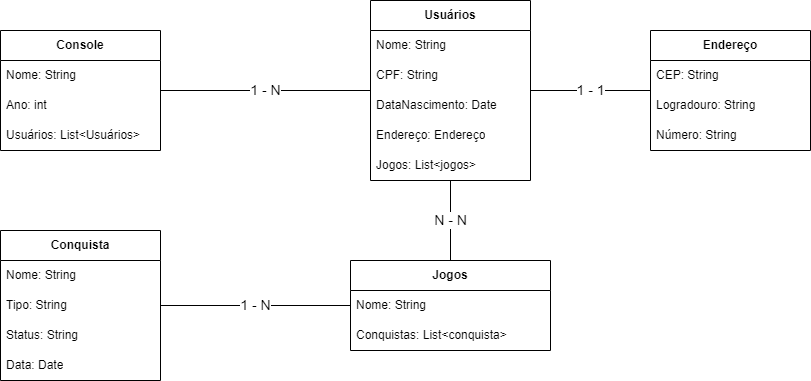
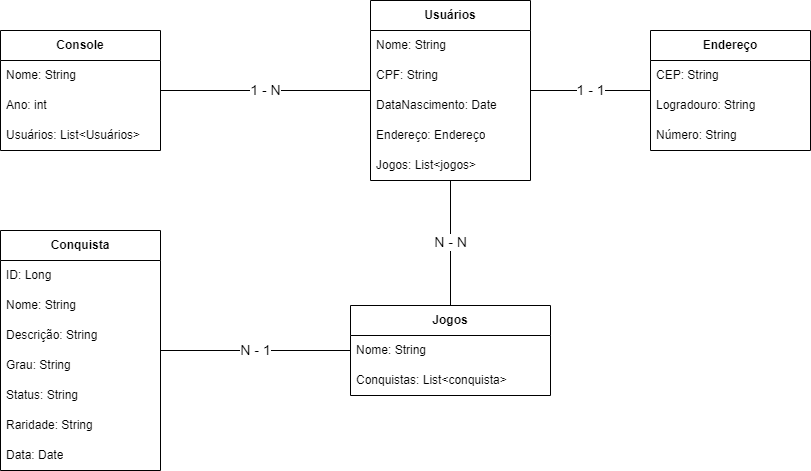
Começando o projeto, implementando a entidade Conquista

diff --git a/Módulo VI - PROGRAMAÇÃO WEB II/ProjetoWesleyFaveron/src/main/java/br/com/ada/sinqia/ProjetoWesleyFaveron/service/ConquistaServiceImpl.java b/Módulo VI - PROGRAMAÇÃO WEB II/ProjetoWesleyFaveron/src/main/java/br/com/ada/sinqia/ProjetoWesleyFaveron/service/ConquistaServiceImpl.java
@@ -1,0 +1,47 @@
+package br.com.ada.sinqia.ProjetoWesleyFaveron.service;
+
+import br.com.ada.sinqia.ProjetoWesleyFaveron.domain.Conquista;
+import br.com.ada.sinqia.ProjetoWesleyFaveron.exceptions.ConquistaExistenteException;
+import br.com.ada.sinqia.ProjetoWesleyFaveron.exceptions.ConquistaNaoEncontradaException;
+import br.com.ada.sinqia.ProjetoWesleyFaveron.repository.ConquistaRepository;
+import lombok.RequiredArgsConstructor;
+import org.springframework.stereotype.Service;
+
+import java.util.List;
+
+@Service
+@RequiredArgsConstructor
+public class ConquistaServiceImpl implements ConquistaService {
+
+    private final ConquistaRepository repository;
+
+    @Override
+    public Conquista save(Conquista conquista) {
+        if (repository.existsByNome(conquista.getNome())) {
+            throw new ConquistaExistenteException();
+        }
+        return repository.save(conquista);
+    }
+
+    @Override
+    public Conquista findById(Long id) {
+        return repository.findById(id).orElseThrow(ConquistaNaoEncontradaException::new);
+    }
+
+    @Override
+    public Conquista update(Long id, Conquista conquista) {
+        if (repository.existsById(id)) {
+            conquista.setId(id);
+            return repository.save(conquista);
+        }
+        throw new ConquistaNaoEncontradaException();
+    }
+
+    @Override
+    public void delete(Long id) {
+        if (!repository.existsById(id)) {
+            throw new ConquistaNaoEncontradaException();
+        }
+        repository.deleteById(id);
+    }
+}

diff --git a/Módulo VI - PROGRAMAÇÃO WEB II/ProjetoWesleyFaveron/src/main/java/br/com/ada/sinqia/ProjetoWesleyFaveron/domain/Conquista.java b/Módulo VI - PROGRAMAÇÃO WEB II/ProjetoWesleyFaveron/src/main/java/br/com/ada/sinqia/ProjetoWesleyFaveron/domain/Conquista.java
@@ -1,0 +1,51 @@
+package br.com.ada.sinqia.ProjetoWesleyFaveron.domain;
+
+import jakarta.persistence.*;
+import jakarta.validation.constraints.NotBlank;
+import jakarta.validation.constraints.NotNull;
+import lombok.*;
+
+import java.time.LocalDateTime;
+
+@Getter
+@Setter
+@AllArgsConstructor
+@NoArgsConstructor
+@Builder
+@Entity(name = "Conquistas")
+public class Conquista {
+    @Id
+    @GeneratedValue(strategy = GenerationType.IDENTITY)
+    private Long id;
+
+    @NotNull
+    @NotBlank
+    @Column(name = "Nome", unique = true)
+    private String nome;
+
+    @NotNull
+    @NotBlank
+    @Column(name = "Detalhes")
+    private String descricao;
+
+    @NotNull
+    @NotBlank
+    @Enumerated(EnumType.STRING)
+    @Column(name = "Status")
+    private ConquistaStatus status;
+
+    @NotNull
+    @NotBlank
+    @Enumerated(EnumType.STRING)
+    @Column(name = "Grau")
+    private ConquistaGrau grau;
+
+    @NotNull
+    @NotBlank
+    @Enumerated(EnumType.STRING)
+    @Column(name = "Raridade")
+    private ConquistaRaridade raridade;
+
+    @Column(name = "Data_Da_Conquista")
+    private LocalDateTime dataDaConquista;
+}

diff --git a/Módulo VI - PROGRAMAÇÃO WEB II/ProjetoWesleyFaveron/src/main/java/br/com/ada/sinqia/ProjetoWesleyFaveron/dto/ConquistaSaveDTO.java b/Módulo VI - PROGRAMAÇÃO WEB II/ProjetoWesleyFaveron/src/main/java/br/com/ada/sinqia/ProjetoWesleyFaveron/dto/ConquistaSaveDTO.java
@@ -1,0 +1,31 @@
+package br.com.ada.sinqia.ProjetoWesleyFaveron.dto;
+
+import br.com.ada.sinqia.ProjetoWesleyFaveron.domain.ConquistaGrau;
+import br.com.ada.sinqia.ProjetoWesleyFaveron.domain.ConquistaRaridade;
+import br.com.ada.sinqia.ProjetoWesleyFaveron.domain.ConquistaStatus;
+import jakarta.validation.constraints.NotBlank;
+import jakarta.validation.constraints.NotNull;
+import lombok.Getter;
+import lombok.Setter;
+
+@Setter
+@Getter
+public class ConquistaSaveDTO {
+    @NotBlank(message = "Nome é um campo obrigatorio")
+    private String nome;
+
+    @NotBlank(message = "Descrição é um campo obrigatorio")
+    private String descricao;
+
+    @NotBlank(message = "Status é um campo obrigatorio")
+    @NotNull
+    private ConquistaStatus status;
+
+    @NotBlank(message = "Grau é um campo obrigatorio")
+    @NotNull
+    private ConquistaGrau grau;
+
+    @NotBlank(message = "Raridade é um campo obrigatorio")
+    @NotNull
+    private ConquistaRaridade raridade;
+}

diff --git a/Módulo VI - PROGRAMAÇÃO WEB II/Industria-eolica/src/main/java/br/com/ada/Industria/eolica/service/AerogeradorServiceImpl.java b/Módulo VI - PROGRAMAÇÃO WEB II/Industria-eolica/src/main/java/br/com/ada/Industria/eolica/service/AerogeradorServiceImpl.java
@@ -12,6 +12,7 @@ import java.util.List;
 @Service
 @RequiredArgsConstructor
 public class AerogeradorServiceImpl implements AerogeradorService {
+
     private final AerogeradorRepository repository;
 
     public List<Aerogerador> list() {
@@ -20,7 +21,7 @@ public class AerogeradorServiceImpl implements AerogeradorService {
 
     @Override
     public Aerogerador save(Aerogerador aerogerador) {
-        if (repository.existsByNumeroSerie(aerogerador.getNumeroSerie())) {
+        if (repository.existsByNumeroSerie(aerogerador.getNumeroSerie())){
             throw new AerogeradorNumeroSerieException();
         }
         return repository.save(aerogerador);
@@ -47,4 +48,5 @@ public class AerogeradorServiceImpl implements AerogeradorService {
         }
         repository.deleteById(id);
     }
+
 }

diff --git a/Módulo VI - PROGRAMAÇÃO WEB II/ProjetoWesleyFaveron/src/main/java/br/com/ada/sinqia/ProjetoWesleyFaveron/domain/Endereco.java b/Módulo VI - PROGRAMAÇÃO WEB II/ProjetoWesleyFaveron/src/main/java/br/com/ada/sinqia/ProjetoWesleyFaveron/domain/Endereco.java
@@ -1,9 +1,10 @@
-package br.com.ada.Industria.eolica.domain;
+package br.com.ada.sinqia.ProjetoWesleyFaveron.domain;
 
 import jakarta.persistence.Entity;
 import jakarta.persistence.GeneratedValue;
 import jakarta.persistence.GenerationType;
 import jakarta.persistence.Id;
+import jakarta.validation.constraints.NotNull;
 import lombok.Getter;
 import lombok.Setter;
 
@@ -11,11 +12,13 @@ import lombok.Setter;
 @Getter
 @Setter
 public class Endereco {
-
     @Id
     @GeneratedValue(strategy = GenerationType.AUTO)
     private Long id;
+
+    @NotNull
     private String cep;
     private String logradouro;
+    @NotNull
     private String numero;
 }

diff --git a/Módulo VI - PROGRAMAÇÃO WEB II/Industria-eolica/src/main/java/br/com/ada/Industria/eolica/domain/Aerogerador.java b/Módulo VI - PROGRAMAÇÃO WEB II/Industria-eolica/src/main/java/br/com/ada/Industria/eolica/domain/Aerogerador.java
@@ -12,6 +12,7 @@ import java.time.LocalDateTime;
 @Builder
 @Entity
 public class Aerogerador {
+
     @Id
     @GeneratedValue(strategy = GenerationType.SEQUENCE)
     private Long id;
@@ -22,9 +23,9 @@ public class Aerogerador {
     private String numeroSerie;
 
     @Enumerated(EnumType.STRING)
-    private br.com.ada.Industria.eolica.domain.AerogeradorStatus status;
+    private AerogeradorStatus status;
     private LocalDateTime createdAt;
 
     @ManyToOne(fetch = FetchType.LAZY)
-    private br.com.ada.Industria.eolica.domain.ParqueEolico parqueEolico;
+    private ParqueEolico parqueEolico;
 }

diff --git a/Módulo VI - PROGRAMAÇÃO WEB II/Industria-eolica/src/main/java/br/com/ada/Industria/eolica/controller/ParqueEolicoController.java b/Módulo VI - PROGRAMAÇÃO WEB II/Industria-eolica/src/main/java/br/com/ada/Industria/eolica/controller/ParqueEolicoController.java
@@ -14,6 +14,7 @@ import java.util.List;
 @RequestMapping("parque-eolico")
 @RequiredArgsConstructor
 public class ParqueEolicoController {
+
     private final ParqueEolicoService service;
     private final ParqueEolicoMapper mapper;
 
@@ -21,6 +22,7 @@ public class ParqueEolicoController {
     public List<ParqueEolicoListDTO> list() {
         return service.list().stream().map(mapper::parqueEolicoToParqueEolicoListDTO).toList();
     }
+
 
     @PostMapping
     @ResponseStatus(HttpStatus.CREATED)

diff --git a/Módulo VI - PROGRAMAÇÃO WEB II/Industria-eolica/src/main/java/br/com/ada/Industria/eolica/mapper/AerogeradorMapper.java b/Módulo VI - PROGRAMAÇÃO WEB II/Industria-eolica/src/main/java/br/com/ada/Industria/eolica/mapper/AerogeradorMapper.java
@@ -3,10 +3,11 @@ package br.com.ada.Industria.eolica.mapper;
 import br.com.ada.Industria.eolica.domain.Aerogerador;
 import br.com.ada.Industria.eolica.dto.AerogeradorSaveDTO;
 import org.mapstruct.Mapper;
-import org.springframework.web.bind.annotation.Mapping;
+import org.mapstruct.Mapping;
 
 @Mapper(componentModel = "spring")
 public interface AerogeradorMapper {
+
     @Mapping(target = "parqueEolico", ignore = true)
     Aerogerador aerogeradorSaveDTOToAerogerador(AerogeradorSaveDTO dto);
 }

diff --git a/Módulo VI - PROGRAMAÇÃO WEB II/ProjetoWesleyFaveron/src/main/java/br/com/ada/sinqia/ProjetoWesleyFaveron/repository/ConquistaRepository.java b/Módulo VI - PROGRAMAÇÃO WEB II/ProjetoWesleyFaveron/src/main/java/br/com/ada/sinqia/ProjetoWesleyFaveron/repository/ConquistaRepository.java
@@ -1,0 +1,10 @@
+package br.com.ada.sinqia.ProjetoWesleyFaveron.repository;
+
+import br.com.ada.sinqia.ProjetoWesleyFaveron.domain.Conquista;
+import org.springframework.data.repository.CrudRepository;
+import org.springframework.stereotype.Repository;
+
+@Repository
+public interface ConquistaRepository extends CrudRepository<Conquista, Long> {
+    boolean existsByNome(String nome);
+}

diff --git a/Módulo VI - PROGRAMAÇÃO WEB II/ProjetoWesleyFaveron/src/main/java/br/com/ada/sinqia/ProjetoWesleyFaveron/service/ConquistaService.java b/Módulo VI - PROGRAMAÇÃO WEB II/ProjetoWesleyFaveron/src/main/java/br/com/ada/sinqia/ProjetoWesleyFaveron/service/ConquistaService.java
@@ -1,0 +1,12 @@
+package br.com.ada.sinqia.ProjetoWesleyFaveron.service;
+
+import br.com.ada.sinqia.ProjetoWesleyFaveron.domain.Conquista;
+
+import java.util.List;
+
+public interface ConquistaService {
+    Conquista save(Conquista conquista);
+    Conquista findById(Long id);
+    Conquista update(Long id, Conquista conquista);
+    void delete(Long id);
+}

diff --git a/Módulo VI - PROGRAMAÇÃO WEB II/Industria-eolica/src/main/java/br/com/ada/Industria/eolica/exceptions/AerogeradorNumeroSerieException.java b/Módulo VI - PROGRAMAÇÃO WEB II/Industria-eolica/src/main/java/br/com/ada/Industria/eolica/exceptions/AerogeradorNumeroSerieException.java
@@ -1,6 +1,6 @@
 package br.com.ada.Industria.eolica.exceptions;
 
-public class AerogeradorNumeroSerieException extends RuntimeException {
+public class AerogeradorNumeroSerieException extends RuntimeException{
 
     public AerogeradorNumeroSerieException() {
         super("Aerogerador já existe");

diff --git a/Módulo VI - PROGRAMAÇÃO WEB II/ProjetoWesleyFaveron/src/main/java/br/com/ada/sinqia/ProjetoWesleyFaveron/exceptions/ConquistaNaoEncontradaException.java b/Módulo VI - PROGRAMAÇÃO WEB II/ProjetoWesleyFaveron/src/main/java/br/com/ada/sinqia/ProjetoWesleyFaveron/exceptions/ConquistaNaoEncontradaException.java
@@ -1,0 +1,7 @@
+package br.com.ada.sinqia.ProjetoWesleyFaveron.exceptions;
+
+public class ConquistaNaoEncontradaException extends RuntimeException {
+    public ConquistaNaoEncontradaException() {
+        super("Conquista não encontrado");
+    }
+}
